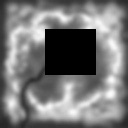
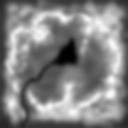
fica a faltar o ultimo ponto. A começar com a construçao da placa

Changed region(s): [[0.3438, 0.2188, 0.75, 0.5938]]

diff --git a/projeto/proj/MyScene.js b/projeto/proj/MyScene.js
@@ -35,6 +35,7 @@ class MyScene extends CGFscene {
         this.cyl = new MyCylinder(this,50);
         this.materials = new Material(this);
         this.terrain = new MyTerrain(this);
+        this.billboard = new MyBillboard(this);
 
         this.text="";
         this.speedLimit=4;
@@ -135,6 +136,35 @@ class MyScene extends CGFscene {
 
             keysPressed=true;
         }
+        if (this.gui.isKeyPressed("KeyP")) {
+            if(!this.vehicle.automaticPilot){
+                this.text+="P";
+                this.oposto= Math.sin(this.vehicle.angle+Math.PI/2)*5;
+                this.adj= Math.cos(this.vehicle.angle+Math.PI/2)*5;
+                /*this.oposto2= Math.sin(this.vehicle.angle-Math.PI/2)*5;
+                this.adj2= Math.cos(this.vehicle.angle-Math.PI/2)*5;
+                if(Math.abs(this.oposto) > Math.abs(this.oposto2)){
+                    this.oposto=this.oposto2;
+                    this.adj = this.adj2;
+                }*/
+
+
+
+                this.vehicle.center = [this.vehicle.x - this.oposto, this.vehicle.z - this.adj];
+                if(this.vehicle.y > this.vehicle.center[1] )
+                    this.start =  - Math.acos((this.vehicle.x-this.vehicle.center[0])/5);
+                else
+                    this.start =  Math.acos((this.vehicle.x -this.vehicle.center[0])/5);
+
+                this.aux=this.start;
+                this.vehicle.automaticPilot=true;
+
+                console.log("START >>>> "+this.start +" coords : "+ this.vehicle.x + "<->"+this.vehicle.z);
+                console.log(this.vehicle.center)
+                keysPressed=true;
+            }
+
+        }
         if (this.gui.isKeyPressed("KeyL")) {
             this.text+="L";
             this.dropPosition = [this.vehicle.x,this.vehicle.z];
@@ -145,7 +175,7 @@ class MyScene extends CGFscene {
             }
             keysPressed=true;
         }
-        console.log("velocidade:" +this.speed);
+        //console.log("velocidade:" +this.speed);
         if (keysPressed)
             console.log(this.text);
         this.vehicle.update(this.text, this.speed*(this.speedFactor/2));
@@ -169,12 +199,20 @@ class MyScene extends CGFscene {
         if( this.vehicle.supplyPointer <4 && this.vehicle.supply[this.vehicle.supplyPointer].state === this.vehicle.supply[this.vehicle.supplyPointer].SupplyStates.LANDED){
             this.vehicle.supplyPointer++;
         }
-        /*
-        * 100 ou 50
-        * ~100----1
-        *  50 -----x
-        * 100 - 10*velocidade
-        * */
+        if(this.vehicle.automaticPilot) {
+            this.vehicle.automatic();
+            this.vehicle.speed=7;
+            this.vehicle.x= Math.cos( this.aux)*5 + this.vehicle.center[0];
+            this.vehicle.z= Math.sin( this.aux)*5 + this.vehicle.center[1];
+            this.vehicle.angle = Math.PI/2 - this.aux - Math.PI/2;
+            this.aux+=0.0628;
+                console.log( this.aux  );
+                console.log("x= "+ (this.vehicle.x ));
+                console.log("z= "+ (this.vehicle.z ));
+                if(this.aux >= this.start + 6.28)
+                    this.vehicle.automaticPilot = false;
+        }
+
     }
 
     display() {
@@ -183,6 +221,7 @@ class MyScene extends CGFscene {
             this.camera.setTarget([this.vehicle.x, this.vehicle.y, this.vehicle.z]);
 
         }
+
         // ---- BEGIN Background, camera and axis setup
         // Clear image and depth buffer everytime we update the scene
         this.gl.viewport(0, 0, this.gl.canvas.width, this.gl.canvas.height);
@@ -206,10 +245,15 @@ class MyScene extends CGFscene {
         // ---- BEGIN Primitive drawing section
 
         //This sphere does not have defined texture coordinates
-        if(this.displaySphere){
+
+   /* this.pushMatrix();
+    this.translate(this.vehicle.center[0], 10, this.vehicle.center[1]);
+        this.incompleteSphere.display();
+        this.popMatrix();*/
+        /*if(this.displaySphere){
             this.earth.apply();
             this.incompleteSphere.display();
-        }
+        }*/
 
        if(this.displayVei) {
            this.pushMatrix();
@@ -225,18 +269,22 @@ class MyScene extends CGFscene {
         this.popMatrix();
 
         if (this.displayNormals)
-            this.vehicle.enableNormalViz();
+            this.billboard.enableNormalViz();
         else
-            this.vehicle.disableNormalViz();
+            this.billboard.disableNormalViz();
 
-        if(this.displayCyl){
+       /* if(this.displayCyl){
             this.pushMatrix();
             this.cyl.display();
             this.popMatrix();
-        }
+        }*/
         // ---- END Primitive drawing section
         this.pushMatrix();
-        this.terrain.display();
+        //this.terrain.display();
+        this.popMatrix();
+
+        this.pushMatrix();
+        this.billboard.display();
         this.popMatrix();
 
     }

diff --git a/projeto/proj/MyVehicle.js b/projeto/proj/MyVehicle.js
@@ -11,6 +11,8 @@ class MyVehicle extends CGFobject {
         this.supply = [new MySupply(this.scene),new MySupply(this.scene),new MySupply(this.scene),new MySupply(this.scene),new MySupply(this.scene) ] ;
         this.supplyPointer=0;
         this.nSuppliesDelivered=0;
+        this.automaticPilot=false;
+        this.center=[0.0,0.0];
 
         this.x=0;
         this.y=0;
@@ -24,6 +26,9 @@ class MyVehicle extends CGFobject {
         this.testShaders = new CGFshader(this.scene.gl, "shaders/water.vert", "shaders/water.frag");
         this.testShaders.setUniformsValues({ uSampler2: 1 });
         this.testShaders.setUniformsValues({ timeFactor: 0 });
+    }
+    automatic(){
+
     }
     enableNormalViz() {
 
@@ -73,31 +78,35 @@ class MyVehicle extends CGFobject {
     }
 
     update(key, speed) {
-        this.speed=speed/10;
-        this.z += this.speed*Math.cos(this.angle);
-        this.x += this.speed*Math.sin(this.angle);
-        this.inclina=0;
-        this.inclinaLados=0;
-        for (var i=0; i<key.length; i++){
-            this.rotate=0;
-            if (key.charAt(i) == 'W') {
-                this.inclina = Math.PI / 200;
-            }
-            if (key.charAt(i) == 'S') {
-                if(this.speed>0)
-                    this.inclina = -Math.PI / 200;
-            }
-        if (key.charAt(i) == 'A') {
-            this.angle += 0.5*(this.speed+0.05);
-            this.rotate=Math.PI/14;
-            this.inclinaLados=-Math.PI / 80;
-        }
-        if (key.charAt(i) == 'D') {
-            this.angle -= 0.5*(this.speed+0.05);
-            this.rotate=-Math.PI/14;
-            this.inclinaLados=Math.PI / 80;
+        if(!this.automaticPilot){
+            this.speed=speed/10;
+            this.z += this.speed*Math.cos(this.angle);
+            this.x += this.speed*Math.sin(this.angle);
+            this.inclina=0;
+            this.inclinaLados=0;
+            for (var i=0; i<key.length; i++){
+                this.rotate=0;
+                if (key.charAt(i) === 'W') {
+                    this.inclina = Math.PI / 200;
+                }
+                if (key.charAt(i) === 'S') {
+                    if(this.speed>0)
+                        this.inclina = -Math.PI / 200;
+                }
+                if (key.charAt(i) === 'A') {
+                    this.angle += 0.5*(this.speed+0.05);
+                    this.rotate=Math.PI/14;
+                    this.inclinaLados=-Math.PI / 80;
+                }
+                if (key.charAt(i) === 'D') {
+                    this.angle -= 0.5*(this.speed+0.05);
+                    this.rotate=-Math.PI/14;
+                    this.inclinaLados=Math.PI / 80;
 
+                }
+                console.log("angle: "+ this.angle)
         }
+
 
 
     }

diff --git a/projeto/proj/MyBillboard.js b/projeto/proj/MyBillboard.js
@@ -1,0 +1,94 @@
+/**
+ * MyBillboard
+ * @constructor
+ * @param scene - Reference to MyScene object
+ */
+class MyBillboard extends CGFobject {
+
+
+    constructor(scene) {
+        super(scene);
+        this.plane = new MyPlane(this.scene, 20);
+        this.rectangle = new MyPlane(this.scene, 20);
+        this.base = new MyCylinder(this.scene, 30);
+        this.initMaterials();
+
+    }
+    initMaterials() {
+        this.appearance = new CGFappearance(this.scene);
+
+        this.appearance.loadTexture('images/supplies.png');
+        this.appearance.setTextureWrap('WARM', 'WARM');
+        this.appearance.setAmbient(1, 1, 1, 1);
+        this.appearance.setDiffuse(0.7, 0.7, 0.7, 1);
+        this.appearance.setSpecular(0.0, 0.0, 0.0, 1);
+        this.appearance.setShininess(120);
+
+        this.appearance2 = new CGFappearance(this.scene);
+        this.appearance2.loadTexture('images/oak.jpg');
+        this.appearance2.setTextureWrap('WARM', 'WARM');
+        this.appearance2.setAmbient(1, 1, 1, 1);
+        this.appearance2.setDiffuse(0.7, 0.7, 0.7, 1);
+        this.appearance2.setSpecular(0.0, 0.0, 0.0, 1);
+        this.appearance2.setShininess(120);
+        this.texture2 = new CGFtexture(this.scene, "images/heightmap.jpg");
+
+        this.testShaders = new CGFshader(this.scene.gl, "shaders/terrain.vert", "shaders/terrain.frag");
+        this.testShaders.setUniformsValues({ uSampler2: 1 })
+
+
+    }
+
+
+
+    display() {
+
+        this.appearance.apply();
+
+        this.scene.pushMatrix();
+        this.scene.scale(2,1,1)
+        this.plane.display();
+        this.scene.popMatrix();
+
+        this.appearance2.apply();
+
+        //parte de tras branca
+        this.scene.pushMatrix();
+        this.scene.scale(2,1,1);
+        this.scene.rotate(Math.PI, 0,1,0);
+        this.plane.display();
+        this.scene.popMatrix();
+
+        //retangulo a mudar
+        this.scene.pushMatrix();
+        this.scene.scale(1.5,0.2,1);
+        this.scene.translate(0,0,0.01);
+        this.rectangle.display();
+        this.scene.popMatrix();
+
+        //Bases
+        this.scene.pushMatrix();
+        this.scene.translate(0.9, -1.5, 0);
+        this.scene.scale(0.02,1,0.02)
+        this.base.display();
+        this.scene.popMatrix();
+
+        this.scene.pushMatrix();
+        this.scene.translate(-0.9, -1.5, 0);
+        this.scene.scale(0.02,1,0.02)
+        this.base.display();
+        this.scene.popMatrix();
+
+
+    }
+
+    enableNormalViz(){
+        this.plane.enableNormalViz();
+        this.rectangle.enableNormalViz();
+    }
+    disableNormalViz(){
+
+    }
+
+}
+

diff --git a/projeto/proj/MyFlag.js b/projeto/proj/MyFlag.js
@@ -6,7 +6,7 @@
 class MyFlag extends CGFobject {
     constructor(scene) {
         super(scene);
-        this.flag = new MyPlane(scene, 10);
+        this.flag = new MyPlane(scene, 75);
         this.support = new MyCylinder(scene, 20);
         this.default = new CGFappearance(this.scene);
 
@@ -14,13 +14,6 @@ class MyFlag extends CGFobject {
 
         this.appearance.loadTexture('images/portugal.jpg');
         this.appearance.setTextureWrap('REPEAT', 'REPEAT');
-
-        this.appearanceFlip = new CGFappearance(this.scene);
-
-        this.appearanceFlip.loadTexture('images/portugalFlip.jpg');
-        this.appearanceFlip.setTextureWrap('REPEAT', 'REPEAT');
-
-
 
     }
 
@@ -40,6 +33,7 @@ class MyFlag extends CGFobject {
 
         this.scene.pushMatrix();
         this.scene.scale(1,0.5,1);
+        this.flag.originalText();
         testShaders.setUniformsValues({ invert: false });
         this.appearance.apply();
         this.flag.display();
@@ -50,8 +44,8 @@ class MyFlag extends CGFobject {
         this.scene.rotate(Math.PI, 0,1,0);
         this.scene.rotate(Math.PI, 0,0,1);
         this.scene.scale(1,0.5,1);
+        this.flag.invertText();
         testShaders.setUniformsValues({ invert: true });
-        this.appearanceFlip.apply();
         this.flag.display();
         this.scene.popMatrix();
 

diff --git a/projeto/proj/formas/MyPlane.js b/projeto/proj/formas/MyPlane.js
@@ -49,6 +49,25 @@ class MyPlane extends CGFobject{
 		this.primitiveType = this.scene.gl.TRIANGLE_STRIP;
 		this.initGLBuffers();
 	}
+	invertText(){
+		this.texCoords=[];
+		for (var j = this.nrDivs; j >= 0; j--) {
+			for (var i = 0; i <= this.nrDivs; i++) {
+				this.texCoords.push((this.minS + i * this.q),(this.minT + j * this.w));
+
+			}
+		}
+		this.updateTexCoordsGLBuffers();
+	}
+	originalText(){
+		this.texCoords=[];
+		for (var j = 0; j <= this.nrDivs; j++) {
+			for (var i = 0; i <= this.nrDivs; i++) {
+				this.texCoords.push((this.minS + i * this.q),(this.minT + j * this.w));
+			}
+		}
+		this.updateTexCoordsGLBuffers();
+	}
 
 	setFillMode() { 
 		this.primitiveType=this.scene.gl.TRIANGLE_STRIP;

diff --git a/projeto/proj/main.js b/projeto/proj/main.js
@@ -4,7 +4,7 @@ serialInclude=function(a){var b=console,c=serialInclude.l;if(a.length>0)c.splice
 
 serialInclude(['../lib/CGF.js','MyScene.js', 'MyInterface.js', 'formas/MySphere.js',  'formas/MyQuad.js','MyCubeMap.js', 'MyVehicle.js',
     'MyVehicleFormat.js','formas/MyCylinder.js','Material.js', 'formas/MyLeme.js', 'formas/MyUnitCubeQuad.js','formas/MyTriangle.js',
-    'formas/MyMotorHelice.js','formas/MyPlane.js','MyFlag.js','formas/MyUnitCubeQuadOpen.js','MySupply.js','MyTerrain.js',
+    'formas/MyMotorHelice.js','formas/MyPlane.js','MyFlag.js','formas/MyUnitCubeQuadOpen.js','MySupply.js','MyTerrain.js','MyBillboard.js',
 
 main=function()
 {

diff --git a/projeto/proj/MyTerrain.js b/projeto/proj/MyTerrain.js
@@ -32,7 +32,9 @@ class MyTerrain extends CGFobject {
 
 
     display() {
+
         this.appearance.apply();
+
         this.scene.setActiveShader(this.testShaders);
         this.texture2.bind(1);
         this.scene.pushMatrix();
